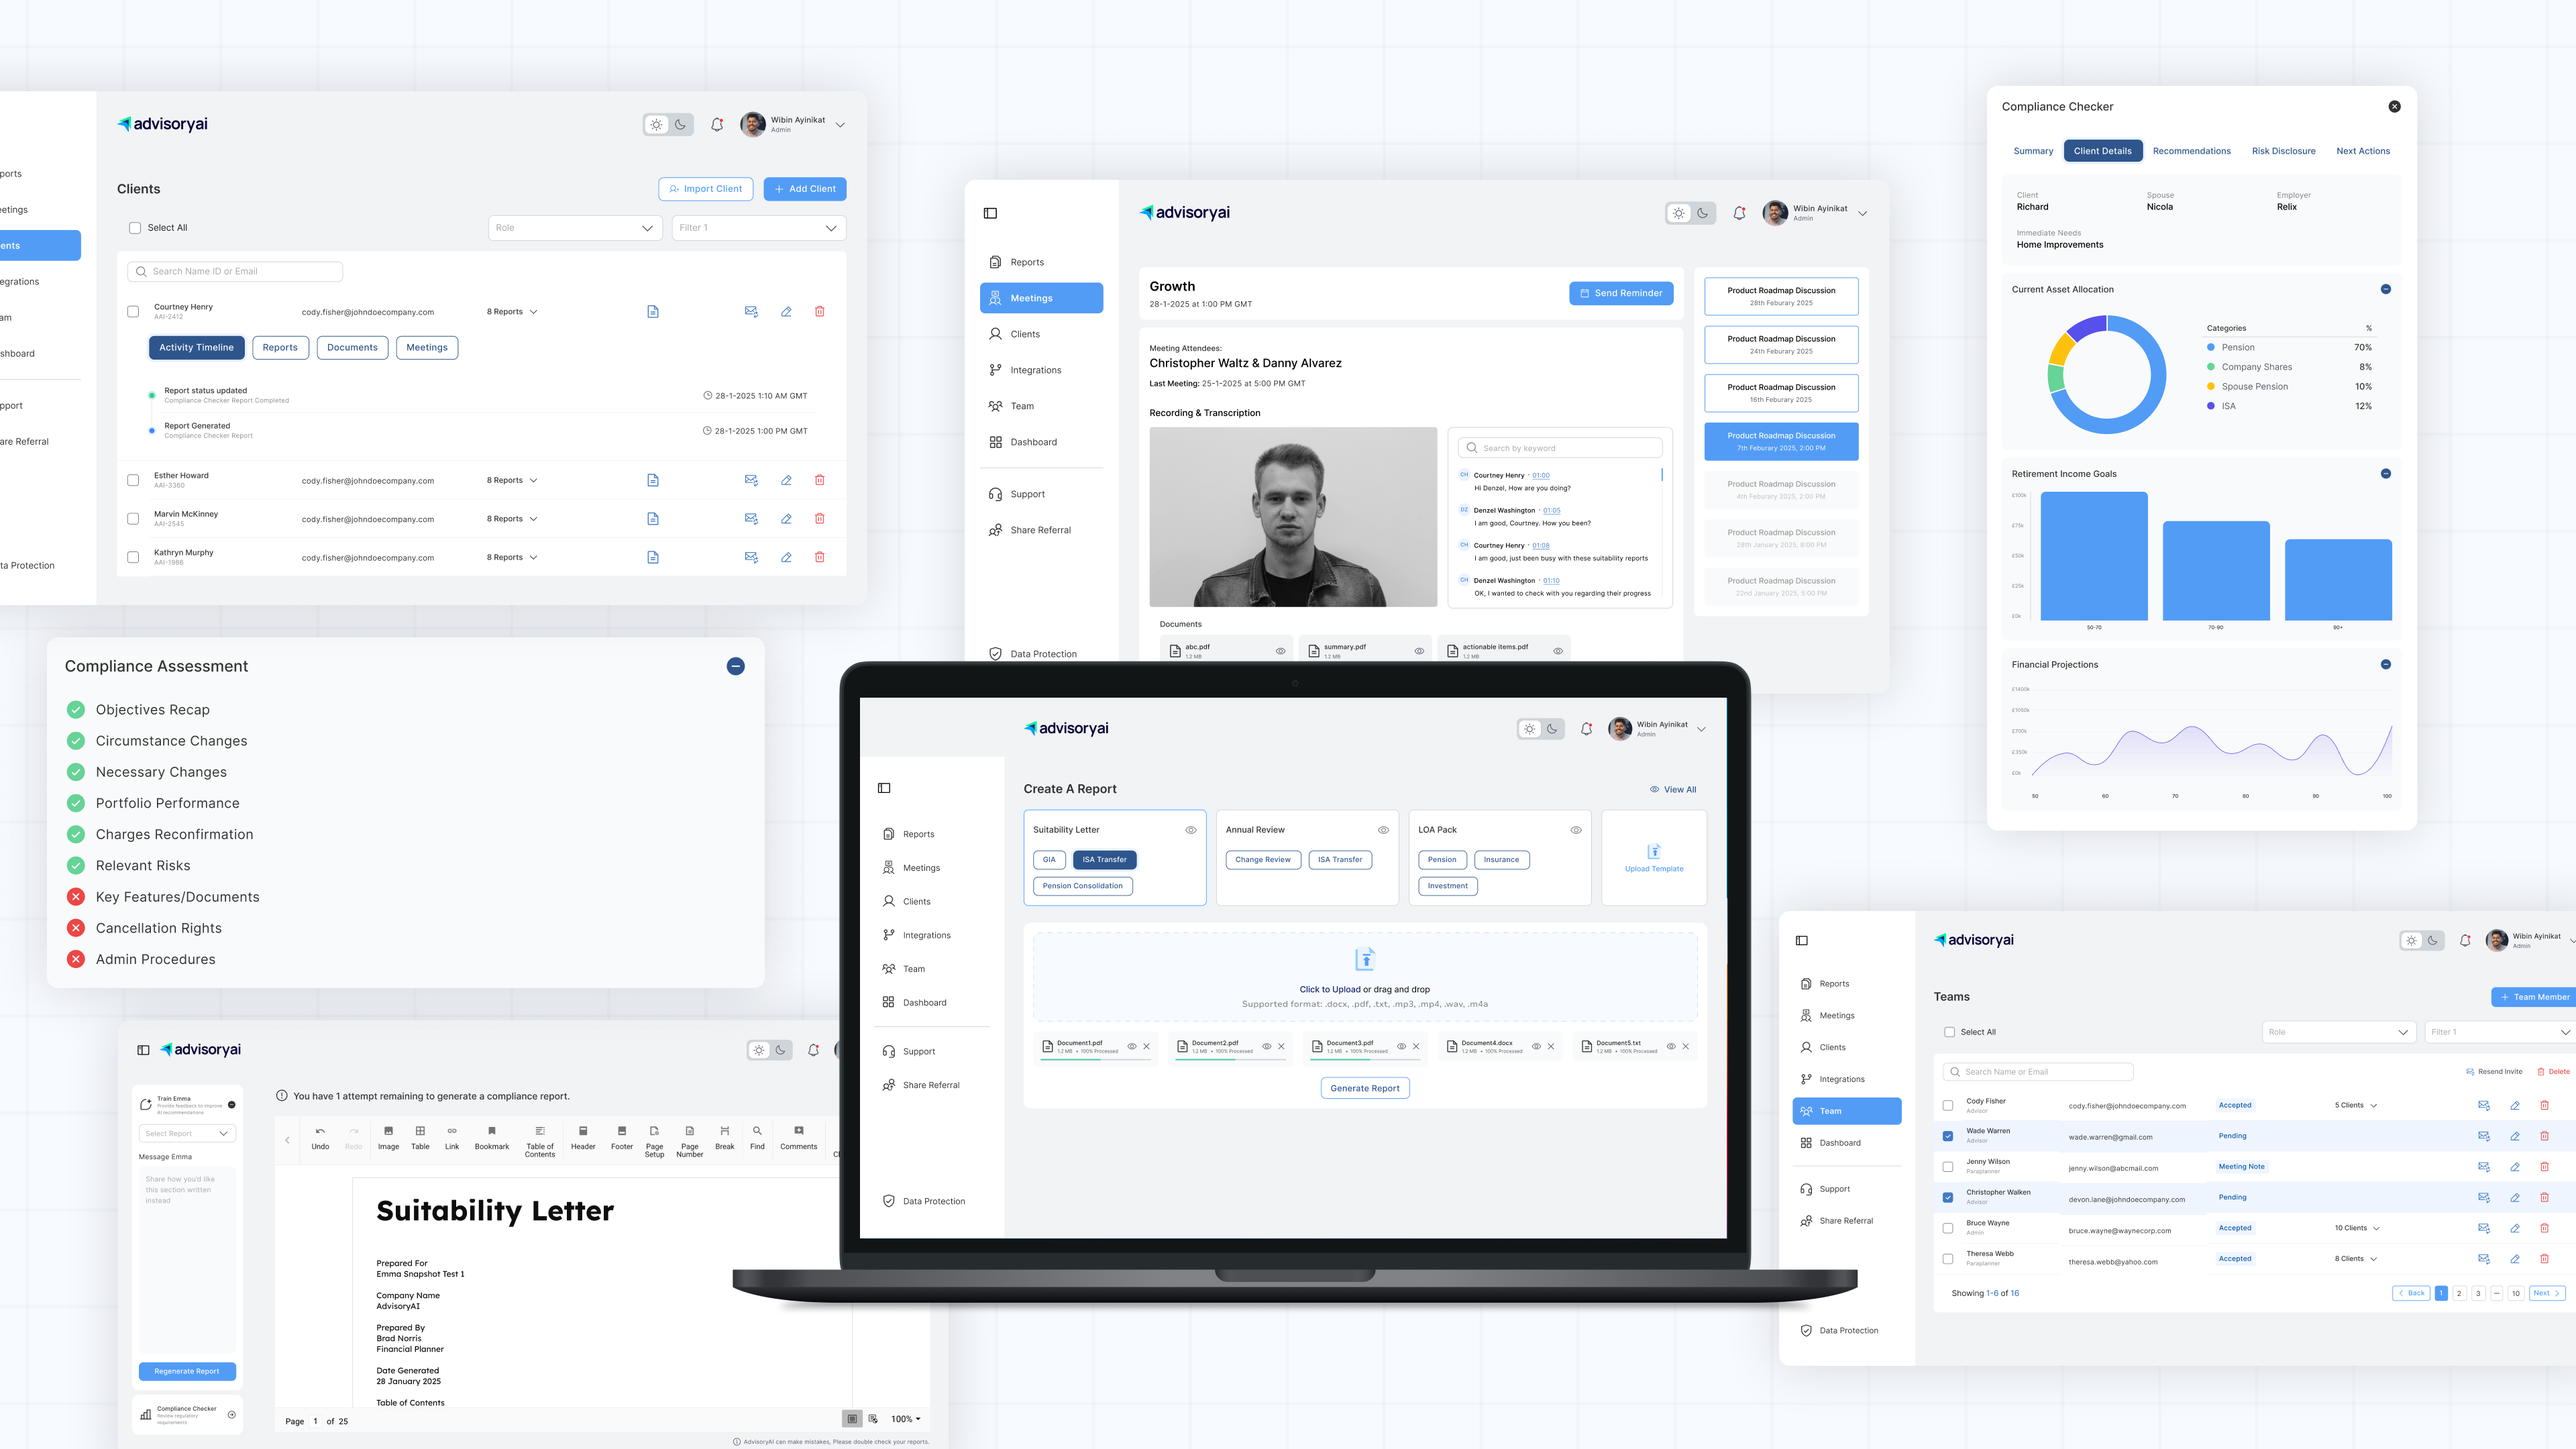
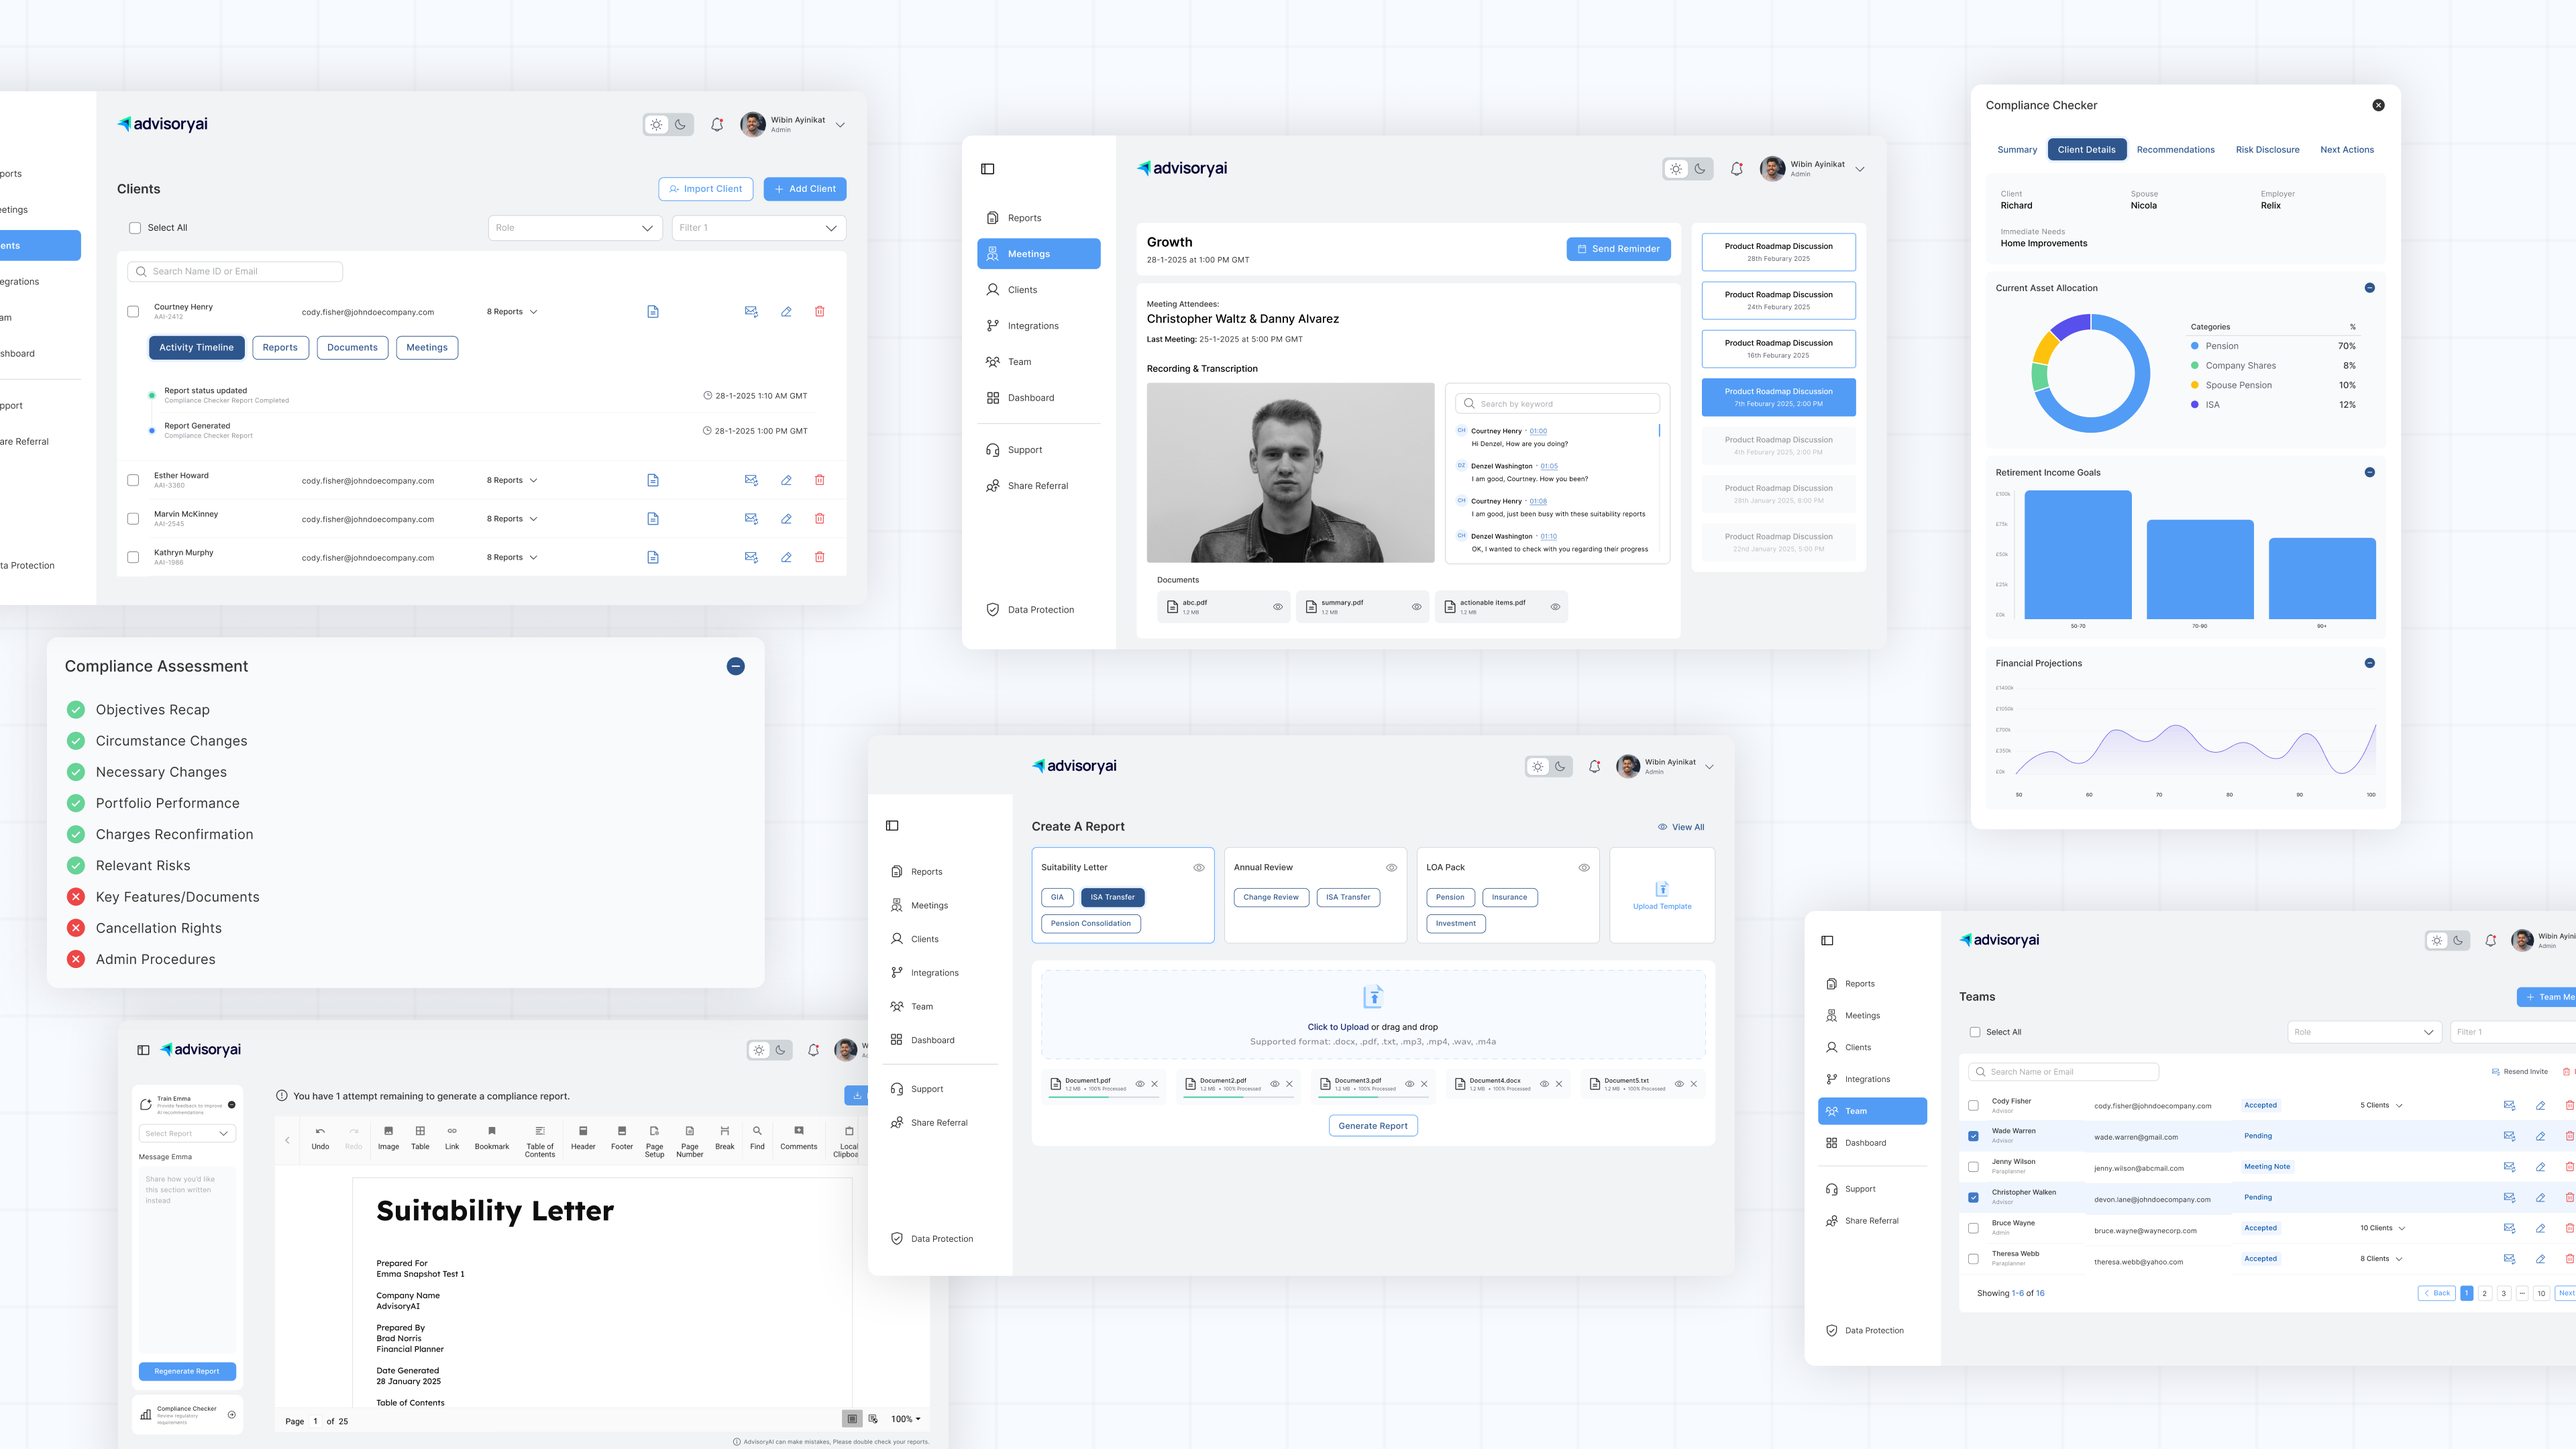
case study images updated

diff --git a/red-taxi.html b/red-taxi.html
@@ -39,7 +39,7 @@ Application Redesign
 Role
 </p>
 <p class="case-role">
-UX Lead — led UX for the app redesign, working alongside Wibin Ayinikat as UI lead, each reviewing the other's work across domains
+Led UX for the app redesign, working alongside Wibin Ayinikat as UI lead, reviewing other's work across domains
 </p>
 </div>
 
